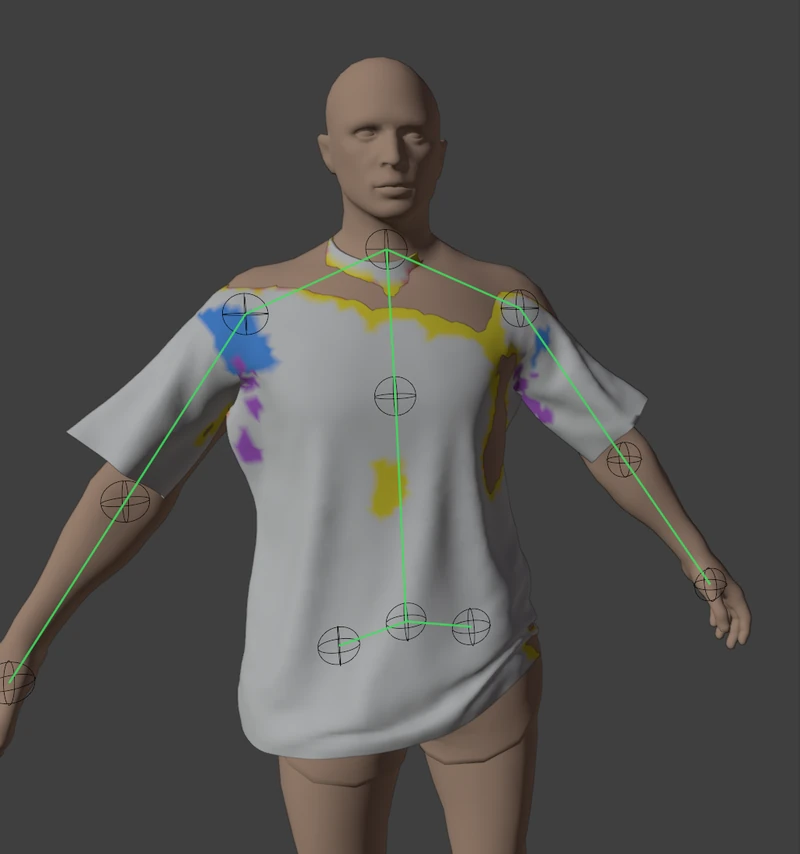
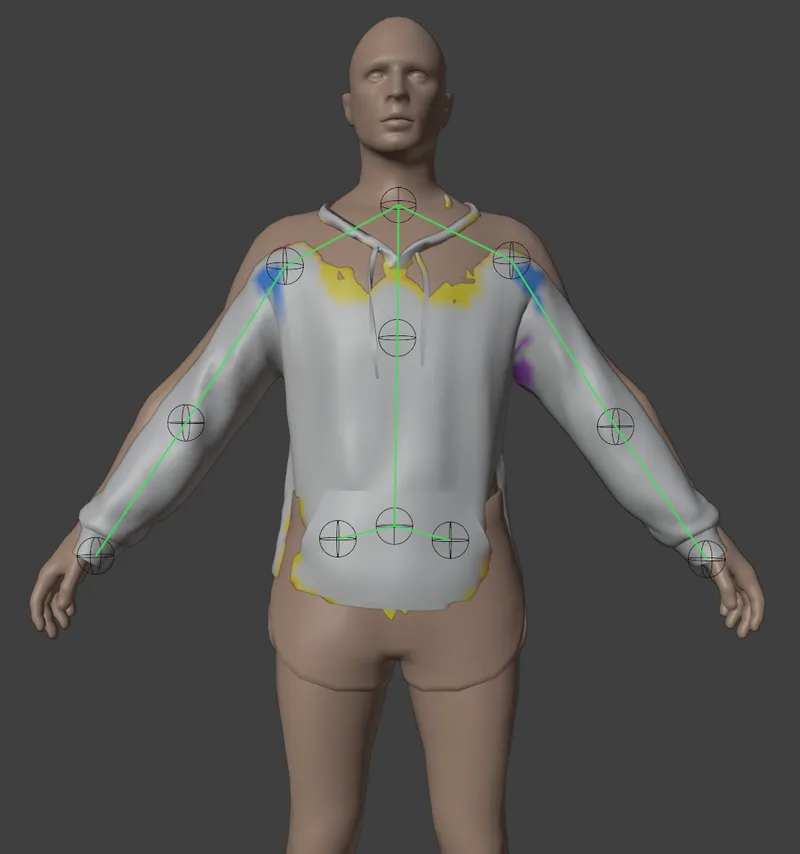
README pictures show the hoodie Male 16 top from the project Forge Studio Test on the real freemode body, rendered by the screenshot tool: Garment Fitting at the Fit stage, the live preview and Show Problems (DEV-2777, DEV-650)

Changed region(s): [[0.0, 0.0, 0.9688, 1.0], [0.3438, 0.9742, 0.375, 1.0]]

diff --git a/README.md b/README.md
@@ -16,7 +16,7 @@
 
 </div>
 
-<img src="docs/images/blender-garment-fitting.webp" alt="Blender with a black T-shirt fitted on the freemode body and its joint markers, next to the DCT tab showing the Garment Fitting stages Setup, Fit, Fix and Game Ready done and Add to Project as the next step" width="100%">
+<img src="docs/images/blender-garment-fitting.webp" alt="Blender's 3D view with a burgundy hoodie aligned to the freemode body and its joint markers joined by green lines, beside the DCT tab at the Fit stage: Setup done, all 11 markers placed, Align to Body done and Fit on gta.clothing as the next step" width="100%">
 
 **Durty Cloth Tool Link** is the free, open-source Blender add-on for [Durty Cloth Tool](https://gta.clothing/), the
 Windows app for making GTA V clothing packs for FiveM and singleplayer. As one of Durty Cloth Tool's Creator Link
@@ -26,7 +26,7 @@ freemode ped, and a character you made becomes a custom ped.
 
 ## ✨ What it does
 
-<img src="docs/images/blender-live-preview.webp" alt="The DCT tab in Blender's sidebar during a live preview: the linked T-shirt from the open project, the image painted live on the ped, two Texture Checks and the Save to Cloth button" width="230" align="right">
+<img src="docs/images/blender-live-preview.webp" alt="The DCT tab in Blender's sidebar during a live preview: the linked hoodie Male 16 top from the project Forge Studio Test, Live on the ped, the texture checks with no problems found, Save to Cloth, and the Model panel with Push Model" width="230" align="right">
 
 - 🧱 **Push your model to the ped.** Select your Sollumz Drawable Dictionary and choose **Push Model**: it replaces
   the selected cloth's model in Durty Cloth Tool's 3D Preview. **Push Automatically** sends it again a moment after
@@ -51,7 +51,7 @@ freemode ped, and a character you made becomes a custom ped.
 
 <table>
   <tr>
-    <td width="50%"><img src="docs/images/blender-fit-problems.webp" alt="A T-shirt on the freemode body coloured by Show Problems: blue where a shoulder floats, purple stretched parts and yellow where it is too close to the body, with the body showing through where the T-shirt is still inside it"></td>
+    <td width="50%"><img src="docs/images/blender-fit-problems.webp" alt="A hoodie on the freemode body coloured by Show Problems: blue where it floats, purple stretched parts and yellow where it is too close to the body, with the body showing through at the shoulders where the hoodie is still inside it"></td>
     <td width="50%"><img src="docs/images/blender-custom-ped.webp" alt="A character in shorts in Blender with its 19 joint markers placed, left side blue and right side orange, next to the Custom Ped panel"></td>
   </tr>
   <tr>
